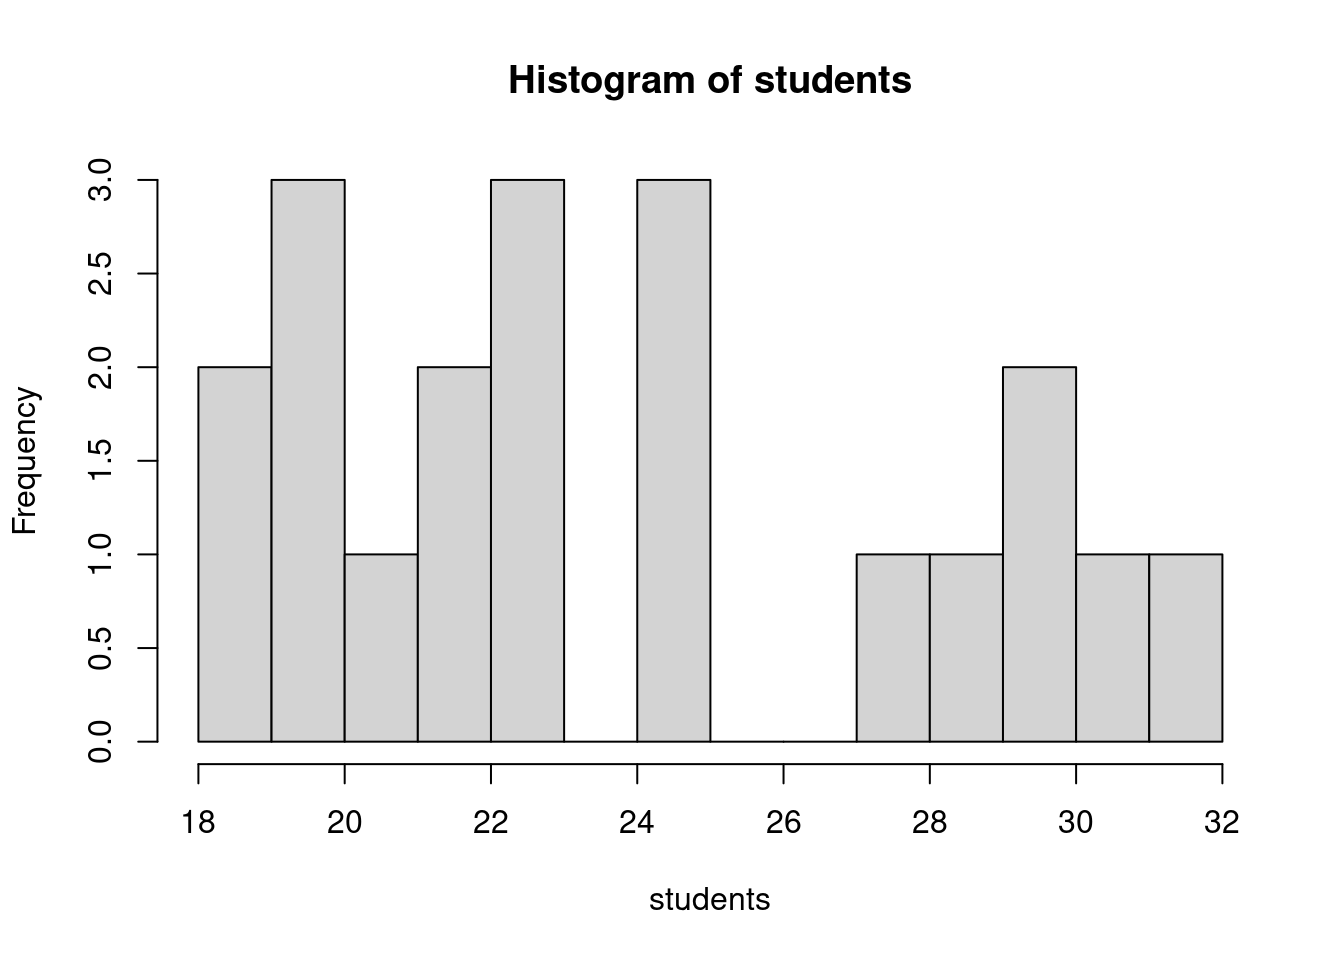
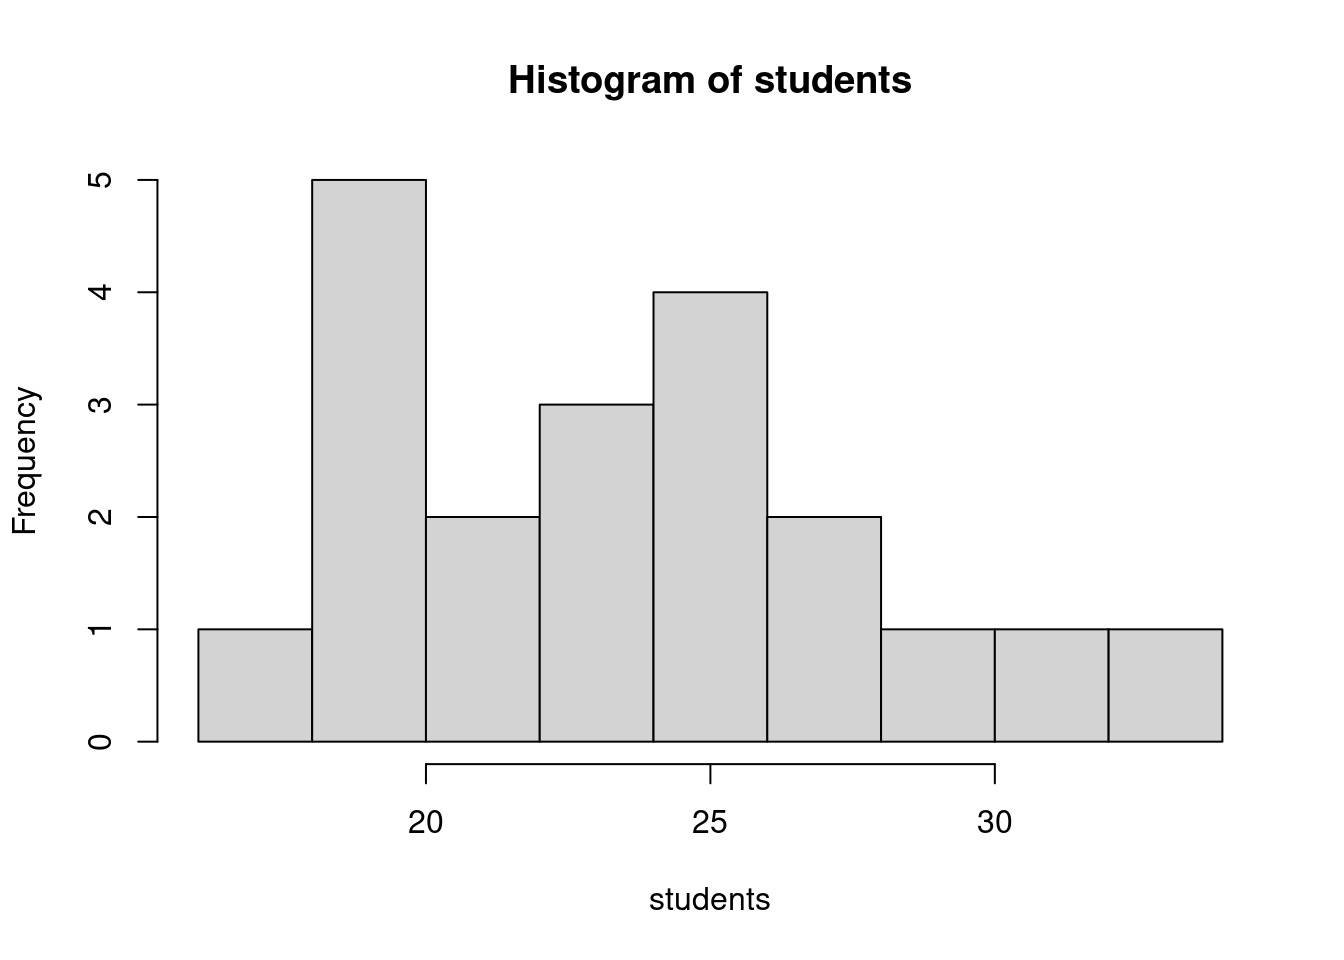
Added Cars and Trends

diff --git a/_book/what-is-statistics.html b/_book/what-is-statistics.html
@@ -268,7 +268,7 @@ While I am collecting this data you can reflect on this funny musing. I grew up 
 <span id="cb3-5"><a href="what-is-statistics.html#cb3-5" aria-hidden="true" tabindex="-1"></a><span class="co"># students &lt;- {} </span></span>
 <span id="cb3-6"><a href="what-is-statistics.html#cb3-6" aria-hidden="true" tabindex="-1"></a></span>
 <span id="cb3-7"><a href="what-is-statistics.html#cb3-7" aria-hidden="true" tabindex="-1"></a>students</span></code></pre></div>
-<pre><code>##  [1] 32 20 22 25 18 20 23 25 25 30 31 20 21 28 29 19 23 23 22 30</code></pre>
+<pre><code>##  [1] 32 21 23 25 28 16 29 20 21 27 33 25 19 24 20 25 20 25 24 20</code></pre>
 <p><em>R Notes</em>: lists in R are enclosed in <em>curly braces</em> and each member of the list is separated by a <em>semi-colon</em> or a space; note I think leaving the space is bad practice and recommend not using that feature. In this case our list is a collection of integers. Lists can more generally be numbers or strings or even lists of lists.</p>
 <p>Comments in commands start with <em>hash symbols</em>.</p>
 <p>Another syntax note: R uses both = and &lt;- for assignment though they have slightly different meanings. They both work as you would expect, however &lt;- has some nice positives in the detailed differences and it is worth getting into the habit of using it.</p>
@@ -278,11 +278,11 @@ While I am collecting this data you can reflect on this funny musing. I grew up 
 <p>To get started we can use <em>summary</em> to get an overview of what our list of student enrollments look like. Review the meaning of each of these.</p>
 <div class="sourceCode" id="cb5"><pre class="sourceCode r"><code class="sourceCode r"><span id="cb5-1"><a href="what-is-statistics.html#cb5-1" aria-hidden="true" tabindex="-1"></a><span class="fu">summary</span>(students)</span></code></pre></div>
 <pre><code>##    Min. 1st Qu.  Median    Mean 3rd Qu.    Max. 
-##   18.00   20.75   23.00   24.30   28.25   32.00</code></pre>
+##   16.00   20.00   24.00   23.85   25.50   33.00</code></pre>
 <p>Mean and Median are <em>measures of center</em>, while the quartiles are <em>measures of spread</em>. One measure of spread missing is the variance or its square root standard deviation:</p>
 <div class="sourceCode" id="cb7"><pre class="sourceCode r"><code class="sourceCode r"><span id="cb7-1"><a href="what-is-statistics.html#cb7-1" aria-hidden="true" tabindex="-1"></a><span class="fu">var</span>(students); <span class="fu">sqrt</span>(<span class="fu">var</span>(students))</span></code></pre></div>
-<pre><code>## [1] 18.74737</code></pre>
-<pre><code>## [1] 4.329823</code></pre>
+<pre><code>## [1] 19.50263</code></pre>
+<pre><code>## [1] 4.416178</code></pre>
 <p>The variance is computed by taking the sum of the square differences between the data and the mean and then dividing that by number of items minus one; we will explain why this is what we divide by later in class:
 <span class="math display">\[ S = \frac{1}{n-1} \sum_{j=1}^n (y_j - \bar{y} )^2 \]</span> where <span class="math inline">\(\bar{y}\)</span> is the mean of the sample made up of the <span class="math inline">\(\{ y_1, y_2, \dots, y_n \}\)</span>.</p>
 <p>In the code blocks below I will add some comments about what we are doing:</p>
@@ -292,16 +292,17 @@ While I am collecting this data you can reflect on this funny musing. I grew up 
 <span id="cb10-4"><a href="what-is-statistics.html#cb10-4" aria-hidden="true" tabindex="-1"></a></span>
 <span id="cb10-5"><a href="what-is-statistics.html#cb10-5" aria-hidden="true" tabindex="-1"></a><span class="co"># R can then do the arithmetic and when we combine a list of numbers with a single number and square it, it knows what we mean.</span></span>
 <span id="cb10-6"><a href="what-is-statistics.html#cb10-6" aria-hidden="true" tabindex="-1"></a>(students <span class="sc">-</span> ybar)<span class="sc">^</span><span class="dv">2</span></span></code></pre></div>
-<pre><code>##  [1] 59.29 18.49  5.29  0.49 39.69 18.49  1.69  0.49  0.49 32.49 44.89 18.49
-## [13] 10.89 13.69 22.09 28.09  1.69  1.69  5.29 32.49</code></pre>
+<pre><code>##  [1] 66.4225  8.1225  0.7225  1.3225 17.2225 61.6225 26.5225 14.8225  8.1225
+## [10]  9.9225 83.7225  1.3225 23.5225  0.0225 14.8225  1.3225 14.8225  1.3225
+## [19]  0.0225 14.8225</code></pre>
 <div class="sourceCode" id="cb12"><pre class="sourceCode r"><code class="sourceCode r"><span id="cb12-1"><a href="what-is-statistics.html#cb12-1" aria-hidden="true" tabindex="-1"></a><span class="co"># Then as we said, we sum over all of these and then divide by the number of them</span></span>
 <span id="cb12-2"><a href="what-is-statistics.html#cb12-2" aria-hidden="true" tabindex="-1"></a><span class="co"># minus 1</span></span>
 <span id="cb12-3"><a href="what-is-statistics.html#cb12-3" aria-hidden="true" tabindex="-1"></a></span>
 <span id="cb12-4"><a href="what-is-statistics.html#cb12-4" aria-hidden="true" tabindex="-1"></a><span class="fu">sum</span>( (students <span class="sc">-</span> ybar)<span class="sc">^</span><span class="dv">2</span> ) <span class="sc">/</span> ( <span class="fu">length</span>(students) <span class="sc">-</span> <span class="dv">1</span> )</span></code></pre></div>
-<pre><code>## [1] 18.74737</code></pre>
+<pre><code>## [1] 19.50263</code></pre>
 <p>Note why we compute variance in this way. We are trying to understand how far the data moves from the mean <span class="math inline">\(\bar{y}\)</span>. However we can’t just sum over the differences as that will just add up to zero:</p>
 <div class="sourceCode" id="cb14"><pre class="sourceCode r"><code class="sourceCode r"><span id="cb14-1"><a href="what-is-statistics.html#cb14-1" aria-hidden="true" tabindex="-1"></a><span class="fu">sum</span>(students <span class="sc">-</span> ybar )</span></code></pre></div>
-<pre><code>## [1] -1.421085e-14</code></pre>
+<pre><code>## [1] -2.842171e-14</code></pre>
 <p>We have choices though, we could sum over the absolute value and indeed that does give us a notion of spread. However the advantage of summing over the squares is that it brings in tools from Calculus that work with quadratic expressions but not with absolute value expressions. We then intend to take an average. For reasons we will justify later, it turns out the correct average to do is to divide by the size of our sample minus 1: <span class="math inline">\(n-1\)</span> is called the degrees of freedom (roughly computing <span class="math inline">\(\bar{y}\)</span> from the sample has used up one degree of freedom).</p>
 <p>Note the units on these two statistics: the variance is the average of the sum of the squares (by the number of degrees of freedom) so its units are the square of the units of our sample data (<em>students squared</em> in this case); and then the standard deviation is the square root of the variance and so has units of the original data (<em>students</em> in this case).</p>
 </div>
@@ -479,7 +480,33 @@ While I am collecting this data you can reflect on this funny musing. I grew up 
 </div>
 <div id="correlations-and-predictions" class="section level2" number="3.5">
 <h2><span class="header-section-number">3.5</span> Correlations and Predictions</h2>
-<p>One of our common goals</p>
+<p>One of our frequent tasks is to use data to make predictions. The process usually involves exploratory analysis of a data set looking for potential relationships between factors in the sample, and then building models to reproduce features of those relationships. Let’s explore this with the mpg data set, a sample of features for 234 cars.</p>
+<div class="sourceCode" id="cb35"><pre class="sourceCode r"><code class="sourceCode r"><span id="cb35-1"><a href="what-is-statistics.html#cb35-1" aria-hidden="true" tabindex="-1"></a>mpg</span></code></pre></div>
+<pre><code>## # A tibble: 234 x 11
+##    manufacturer model    displ  year   cyl trans   drv     cty   hwy fl    class
+##    &lt;chr&gt;        &lt;chr&gt;    &lt;dbl&gt; &lt;int&gt; &lt;int&gt; &lt;chr&gt;   &lt;chr&gt; &lt;int&gt; &lt;int&gt; &lt;chr&gt; &lt;chr&gt;
+##  1 audi         a4         1.8  1999     4 auto(l… f        18    29 p     comp…
+##  2 audi         a4         1.8  1999     4 manual… f        21    29 p     comp…
+##  3 audi         a4         2    2008     4 manual… f        20    31 p     comp…
+##  4 audi         a4         2    2008     4 auto(a… f        21    30 p     comp…
+##  5 audi         a4         2.8  1999     6 auto(l… f        16    26 p     comp…
+##  6 audi         a4         2.8  1999     6 manual… f        18    26 p     comp…
+##  7 audi         a4         3.1  2008     6 auto(a… f        18    27 p     comp…
+##  8 audi         a4 quat…   1.8  1999     4 manual… 4        18    26 p     comp…
+##  9 audi         a4 quat…   1.8  1999     4 auto(l… 4        16    25 p     comp…
+## 10 audi         a4 quat…   2    2008     4 manual… 4        20    28 p     comp…
+## # … with 224 more rows</code></pre>
+<p><em>displ</em> for <em>displacement</em> is the total liters the car’s engine has in its cylinders, while <em>hwy</em> is the <em>highway miles-per-gallon</em> efficiency of the vehicle. A basic question is what is the relationship between displacement of the engine and the fuel efficiency. Let’s plot for each engine its fuel efficiency versus the engine displacement. Note that the pattern for producing the graph is similar to the one we used above.</p>
+<div class="sourceCode" id="cb37"><pre class="sourceCode r"><code class="sourceCode r"><span id="cb37-1"><a href="what-is-statistics.html#cb37-1" aria-hidden="true" tabindex="-1"></a><span class="fu">ggplot</span>(<span class="at">data =</span> mpg) <span class="sc">+</span> <span class="fu">geom_point</span>(<span class="at">mapping =</span> <span class="fu">aes</span>( <span class="at">x =</span> displ, <span class="at">y =</span> hwy ))</span></code></pre></div>
+<p><img src="_main_files/figure-html/unnamed-chunk-21-1.png" width="672" /></p>
+<p>Not surprisingly, larger engines are less effecient <em>generally</em>. However the relationship is not exact - why not?</p>
+<p>Our model for this is going to be that the <em>displacement</em> is known exactly and then the fuel efficiency is given by: <span class="math display">\[ y - y_0 = k (x - x_0) + \mbox{Error} \]</span>
+Where the Error is a random variable encapsulating all of the other features (variables) in the car - its <em>mass</em>, <em>aerodynmaic features</em>, <em>turbo chargers</em>, <em>cargo capacity</em>, <em>transmission</em>, and on and on. It is likely we may never even know all of the variables that have an effect on the fuel efficiency and cause two cars with the same displacement to have different efficiencies.</p>
+<p>Another possibility is that the relationship is not in fact linear.</p>
+<p>Finally. There may be a subclass of the data that does not fit with the rest. Note the set of six cars with significant displacements (greater than 5 liters) but with fuel efficiencies well
+above the linear trend. To explore this, we can add more variables to a scatter plot by using <em>color</em>, <em>shape</em>, and <em>size</em> attributes. Lets use color with the <em>class</em> variable in our data:</p>
+<div class="sourceCode" id="cb38"><pre class="sourceCode r"><code class="sourceCode r"><span id="cb38-1"><a href="what-is-statistics.html#cb38-1" aria-hidden="true" tabindex="-1"></a><span class="fu">ggplot</span>(<span class="at">data =</span> mpg) <span class="sc">+</span> <span class="fu">geom_point</span>(<span class="at">mapping =</span> <span class="fu">aes</span>( <span class="at">x =</span> displ, <span class="at">y =</span> hwy, <span class="at">color =</span> class ))</span></code></pre></div>
+<p><img src="_main_files/figure-html/unnamed-chunk-22-1.png" width="672" /></p>
 
 </div>
 </div>
